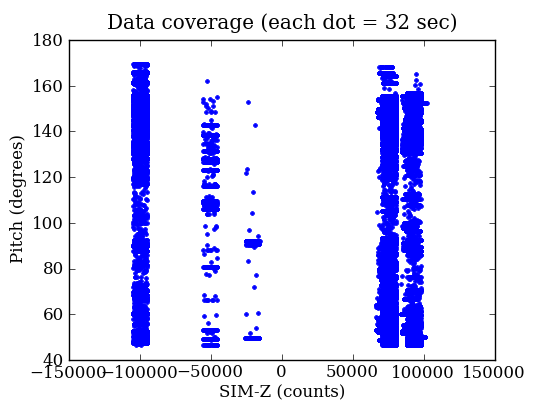
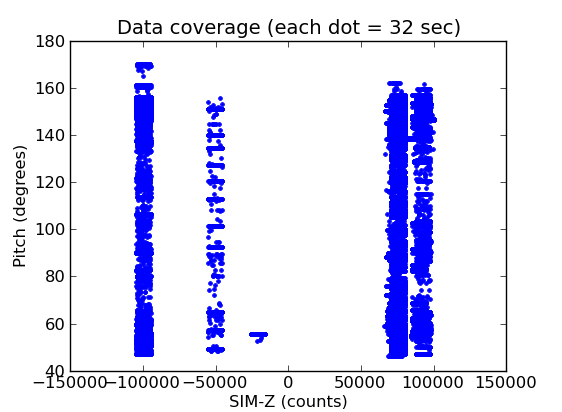
Transition from Ska.TelemArchive to Ska.engarchive.
Also change DB access to use aca_read instead of aca.

diff --git a/psmc_check.py b/psmc_check.py
@@ -15,7 +15,6 @@ import os
 import glob
 import logging
 from pprint import pformat
-import datetime
 import re
 import time
 import shutil
@@ -25,7 +24,7 @@ import numpy as np
 import Ska.DBI
 import Ska.Table
 import Ska.Numpy
-import Ska.TelemArchive.fetch
+import Ska.engarchive.fetch_sci as fetch
 from Chandra.Time import DateTime
 
 import Chandra.cmd_states as cmd_states
@@ -143,11 +142,13 @@ def main(opt):
     # Get temperature telemetry for 3 weeks prior to min(tstart, NOW)
     tlm = get_telem_values(min(tstart, tnow),
                            ['1pdeaat', '1pin1at',
-                            'tscpos', 'aosares1',
+                            'sim_z', 'aosares1',
                             '1de28avo', '1deicacu',
                             '1dp28avo', '1dpicacu',
                             '1dp28bvo', '1dpicbcu'],
-                           days=opt.days)
+                           days=opt.days,
+                           name_map={'sim_z':'tscpos'})
+    tlm['tscpos'] = tlm['tscpos'] * -397.7225924607
   
     # make predictions on oflsdir if defined
     if opt.oflsdir is not None:
@@ -309,30 +310,34 @@ def get_bs_cmds(oflsdir):
 
     return bs_cmds
 
-def get_telem_values(tstart, colspecs, days=14, dt=32.8):
+def get_telem_values(tstart, msids, days=14, dt=32.8, name_map={}):
     """
-    Fetch last ``days`` of available ``colspecs`` telemetry values before
+    Fetch last ``days`` of available ``msids`` telemetry values before
     time ``tstart``.
 
     :param tstart: start time for telemetry (secs)
-    :param colspecs: fetch colspecs list
+    :param msids: fetch msids list
     :param days: length of telemetry request before ``tstart``
+    :param dt: sample time (secs)
+    :param name_map: dict mapping msid to recarray col name
     :returns: np recarray of requested telemetry values from fetch
     """
     tstart = DateTime(tstart).secs
     start = DateTime(tstart - days * 86400).date
     stop = DateTime(tstart).date
     logger.info('Fetching telemetry between %s and %s' % (start, stop))
-    colnames, vals = Ska.TelemArchive.fetch.fetch(start=start,
-                                                  stop=stop,
-                                                  dt=dt,
-                                                  colspecs=colspecs)
+    msidset = fetch.MSIDset(msids, start, stop)
+    msidset.interpolate(dt)
 
     # Finished when we found at least 10 good records (5 mins)
-    if len(vals) < 10:
+    if len(msidset.times) < 10:
         raise ValueError('Found no telemetry within %d days of %s' % (days, str(tstart)))
 
-    return np.rec.fromrecords(vals, names=colnames)
+    outnames = ['date'] + [name_map.get(x, x) for x in msids]
+    out = np.rec.fromarrays([msidset.times] + 
+                            [msidset[x].vals for x in msids],
+                            names=outnames)
+    return out
 
 def rst_to_html(opt, proc):
     """Run rst2html.py to render index.rst as HTML"""

diff --git a/psmc_calibrate.py b/psmc_calibrate.py
@@ -126,7 +126,7 @@ def get_tlm_states(datestop='2009-06-01T00:00:00', ndays=180):
                                       days=ndays, dt=300)
 
     print 'Getting states between %s : %s' % (tlm[0].date, tlm[-1].date)
-    db = Ska.DBI.DBI(dbi='sybase')
+    db = Ska.DBI.DBI(dbi='sybase', user='aca_read')
     states = psmc_check.get_states(tlm[0].date, tlm[-1].date, db)
     # Calc state values at tlm times
     indexes = np.searchsorted(states.tstop, tlm['date'])
